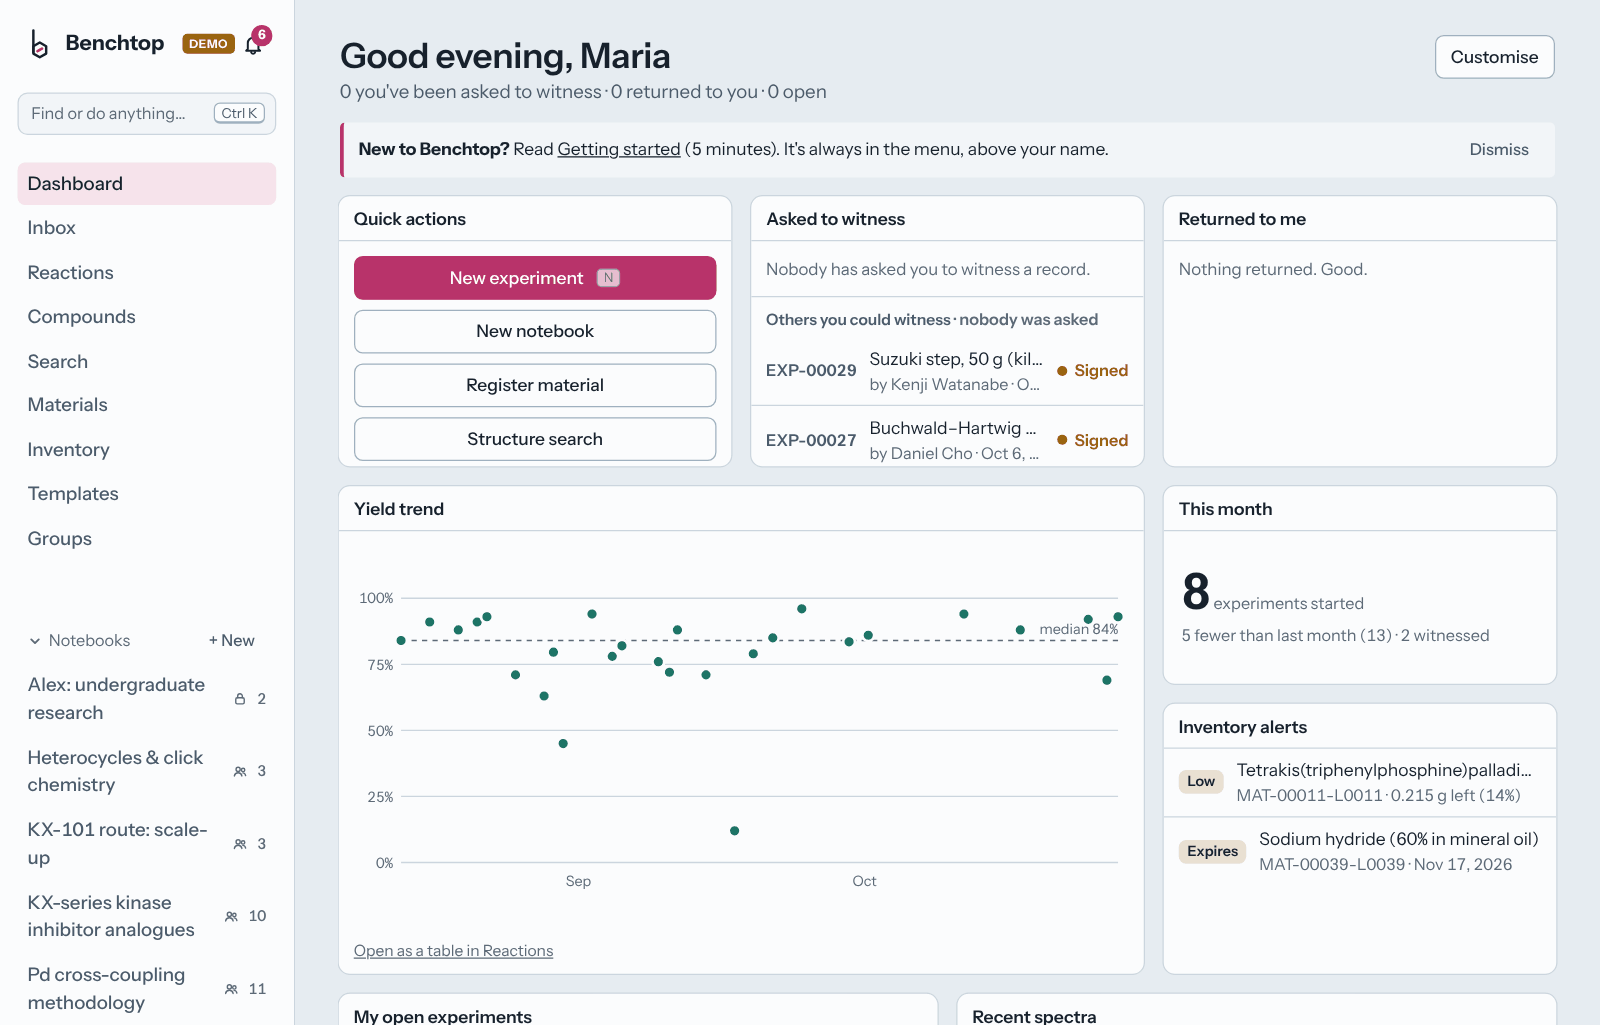
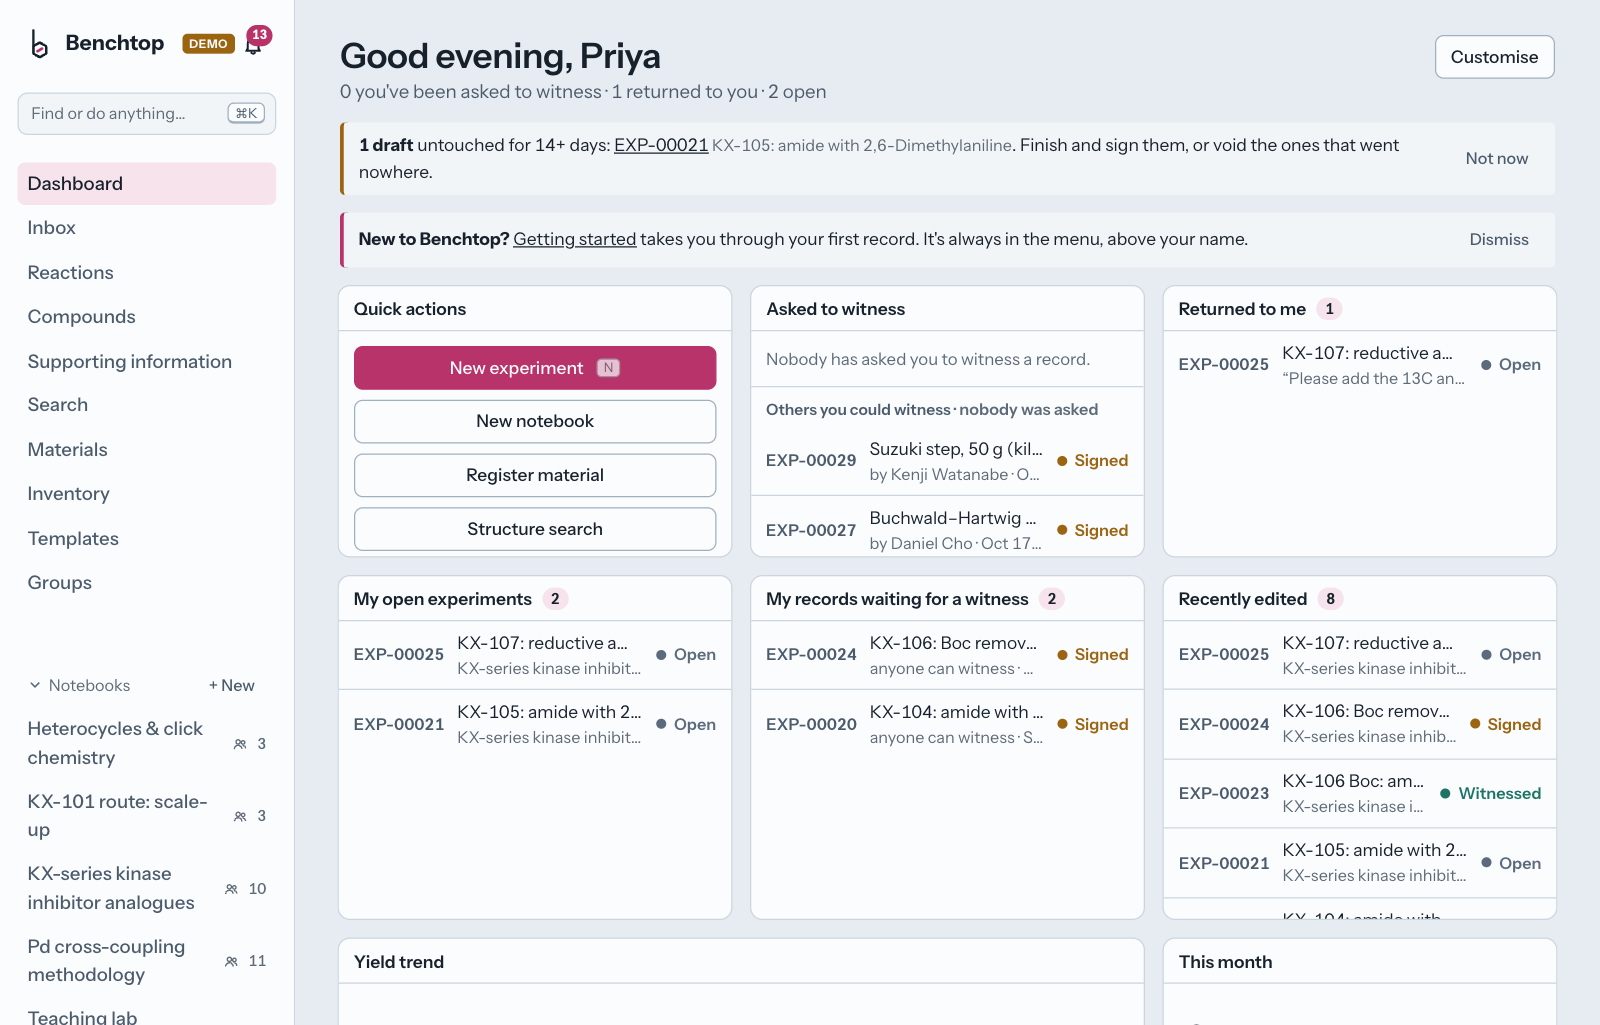
Website and README: screenshots of the 0.35 look
- New screenshots of a signed record, the dashboard and the "Have we done this before?" panel, taken from the
  demo lab on 0.35.0.
- The captions say the similar-reactions panel opens with one click, and that the dashboard lists your records
  waiting for a witness.
- Mentions are described without a bare at-sign.

diff --git a/site/index.html b/site/index.html
@@ -333,10 +333,10 @@ footer .links { display: flex; gap: 20px; margin-left: auto; flex-wrap: wrap; }
       <div class="pair">
         <div style="display:grid; gap:28px; align-content:start">
           <figure style="margin:0">
-            <div class="shot"><img src="img/similar.png" width="1000" height="1042" loading="lazy" alt="Have we done this before? Similar past reactions in the lab with their yields"></div>
+            <div class="shot"><img src="img/similar.png" width="1000" height="639" loading="lazy" alt="Have we done this before? Similar past reactions in the lab with their yields"></div>
             <h3>Have we done this before?</h3>
-            <p>Under every reaction, the most similar ones your lab has already run, with conditions, yields and notes, failures
-              included, as you draw.</p>
+            <p>Under every reaction, one click shows the most similar ones your lab has already run, with conditions, yields and
+              notes, failures included.</p>
           </figure>
           <figure style="margin:0">
             <div class="shot"><img src="img/references.png" width="1000" height="302" loading="lazy" alt="A References section citing two NMR impurity papers, with their DOI links"></div>
@@ -352,10 +352,10 @@ footer .links { display: flex; gap: 20px; margin-left: auto; flex-wrap: wrap; }
             <p>Two-factor screens as a heatmap, with the best conditions picked out and each cell linked to its experiment.</p>
           </figure>
           <figure style="margin:0">
-            <div class="shot"><img src="img/dashboard.png" width="1600" height="1025" loading="lazy" alt="The dashboard: the New to Benchtop? card, records to witness, the yield trend and inventory alerts"></div>
+            <div class="shot"><img src="img/dashboard.png" width="1600" height="1025" loading="lazy" alt="The dashboard: records others could witness, a record returned to its author, records waiting for a witness and recent work"></div>
             <h3>A dashboard you arrange</h3>
-            <p>What you've been asked to witness, what's been returned to you, the lab's yields over time, low or expiring stock
-              and recent spectra.</p>
+            <p>What you've been asked to witness, what's been returned to you, your records waiting for a witness, the lab's
+              yields over time, low or expiring stock and recent spectra.</p>
           </figure>
         </div>
       </div>
@@ -479,7 +479,7 @@ footer .links { display: flex; gap: 20px; margin-left: auto; flex-wrap: wrap; }
         </div>
         <div>
           <h3>Comments and your phone</h3>
-          <p>Threads on any section with @mentions, even on signed records. Press <span class="mono">P</span> for a QR code
+          <p>Threads on any section with mentions, even on signed records. Press <span class="mono">P</span> for a QR code
             that opens the experiment on your phone, to photograph a TLC plate, run a timer one-handed or check a bottle's
             barcode.</p>
         </div>

diff --git a/README.md b/README.md
@@ -27,15 +27,15 @@ assigned against predicted shifts (atom numbers match the structure):
 <table>
 <tr>
 <td width="62%"><img src="docs/screenshots/similar.png" alt="Have we done this before? panel listing similar past reactions with yields"><br>
-<b>Have we done this before?</b> Similar reactions the lab has already run, with conditions, yields and
-notes, under every reaction table, including the failures.</td>
+<b>Have we done this before?</b> One click under every reaction table shows similar reactions the lab has already
+run, with conditions, yields and notes, including the failures.</td>
 <td width="38%" align="center"><img src="docs/screenshots/discussion.png" width="240" alt="Discussion thread with mentions on a section"><br>
-<b>Discussion.</b> Threads on any section, with @mentions and notifications, even on signed records.</td>
+<b>Discussion.</b> Threads on any section, with mentions and notifications, even on signed records.</td>
 </tr>
 <tr>
-<td colspan="2"><img src="docs/screenshots/dashboard.png" alt="Dashboard with witness queue, yield trend, inventory alerts and recent spectra"><br>
-<b>Dashboard.</b> What's waiting for your signature, the lab's yields over time, low or expiring stock and
-recent spectra. Everyone arranges their own.</td>
+<td colspan="2"><img src="docs/screenshots/dashboard.png" alt="Dashboard with records to witness, a returned record, records waiting for a witness and recent work"><br>
+<b>Dashboard.</b> What's waiting for your signature, your records waiting for a witness, the lab's yields over
+time, low or expiring stock and recent spectra. Everyone arranges their own.</td>
 </tr>
 <tr>
 <td><img src="docs/screenshots/reactions.png" alt="Reactions overview table with schemes, scale, reagents and conditions"><br>
@@ -98,7 +98,7 @@ and kept out of the integrals:
 | **History & audit** | Every section save is a new version (view any past version). Every mutation, login and failed signature attempt is written to an append-only audit log where each event hashes the previous one; *Verify hash chain* detects any altered, removed or reordered event. Admin's audit trail reads in plain sentences ("Nadia Newbie signed EXP-00034", "Daniel Cho signed in"), each with the event exactly as stored under *Details*. Attachments are content-addressed and checked against their hash on download. |
 | **Quick navigation** | ⌘K (Ctrl K) finds any experiment (by number, title or sample code, however old the record, also typed `JL013` or `JL–013`), material (by name or CAS), notebook or page, and runs actions such as "New experiment"; press N anywhere for a new experiment. Amount fields accept units: `1.2 g` in a mg cell, `250 µL` in mL, `0.5 mol`, `30 min`, `500 mM`. |
 | **Groups & sharing** | Research groups with leads (a PI, a manager) and members. Each notebook is open to everyone, to one group, or private (plus its group's leads, who see all of their group's notebooks). Share a single experiment with anyone, to view or to edit; only the author signs. Records someone can't open don't appear anywhere for them: lists, search, reactions, compounds, dashboard, spectra and similar-reaction suggestions all respect it. Existing notebooks stay open to everyone until you change them. |
-| **Comments & notifications** | Discuss any experiment or a single section in threads: ask about a peak, request a change, approve. @mention people (autocomplete as you type) and they're notified; replies and comments on your experiments notify you too, via the bell. Resolve threads when done. Comments can be added during review and after signing because they aren't part of the signed record (the signed hash doesn't change), and every comment, edit, deletion and resolution is in the audit trail. Mention someone who can't open the record and Benchtop offers to share it with them. |
+| **Comments & notifications** | Discuss any experiment or a single section in threads: ask about a peak, request a change, approve. Mention people by typing `@` and their name (autocomplete as you type) and they're notified; replies and comments on your experiments notify you too, via the bell. Resolve threads when done. Comments can be added during review and after signing because they aren't part of the signed record (the signed hash doesn't change), and every comment, edit, deletion and resolution is in the audit trail. Mention someone who can't open the record and Benchtop offers to share it with them. |
 | **At the bench** | Press **L** on an experiment to log a timestamped line ("14:32 added NaH portionwise") to its bench log without scrolling; **T** starts a timer (or type "30 min stir"), which runs in the sidebar, rings, notifies and records "Stir: 30 min done (14:32–15:02)". **P** shows a QR code that opens the experiment on your phone, already signed in (one-time code, 5 minutes): take photos of TLC plates straight into the record, log notes and run timers one-handed, and scan a bottle to check it's the right one for the reaction (which row, what to weigh, whether it's empty or expired) and use it for that row (needs `./benchtop lab` or a server, so the phone can reach Benchtop). |
 | **Everyday comforts** | Typing `EXP-00025` or `MAT-00007` in any text makes a link with a hover preview (title, status, structure). Paste or drop pictures straight into text sections; they're saved as files of the record. Removing a section offers *Undo*. ⌘S saves at once, and **?** lists every shortcut. Typing that couldn't be saved (Benchtop stopped, the Wi-Fi went, the sign-in ran out) is kept in your browser until it is: close the tab or let the browser crash, and the section offers to put it back the next time you open the record. When Benchtop can't be reached, the page says so plainly ("Can't reach Benchtop") and keeps trying: a section that couldn't be saved saves by itself once it can, and you stay signed in. *Add from registry* offers your usual reagents first, with the role and lot you last used. The dashboard nudges you about drafts untouched for two weeks. **Download PDF** gives an A4 record with scheme, tables, pictures, signatures and the content hash. Where the PDF/A package installs (most Macs and Linux computers), it's an archival PDF/A-3b file: its fonts and colour profile are inside it, and so are the record's data and its timestamp proofs. Elsewhere it's an ordinary PDF in the same embedded fonts; *Admin → Signing* says which. Long lists (Materials, Search results, the Inbox) say when they show only part of what matches, and *Show more* brings the rest. |
 | **Plugins** | Add your lab's own section types and instrument-file readers with a small text file, no code: a glovebox log, a hydrogenation safety checklist, a cell-passage record; fields with units, dropdowns, warnings when a value is out of range, checklists and tables. Items marked *required* must be done before the author can sign. Readers teach Benchtop to open an instrument's CSV or text export (an HPLC trace, a UV-vis spectrum) as a chart. Admins add plugin files from *Admin → Integrations*; each section keeps a copy of its definition, so records stay readable if a plugin changes or is removed. Three examples ship switched off. See [docs/PLUGINS.md](docs/PLUGINS.md). |
